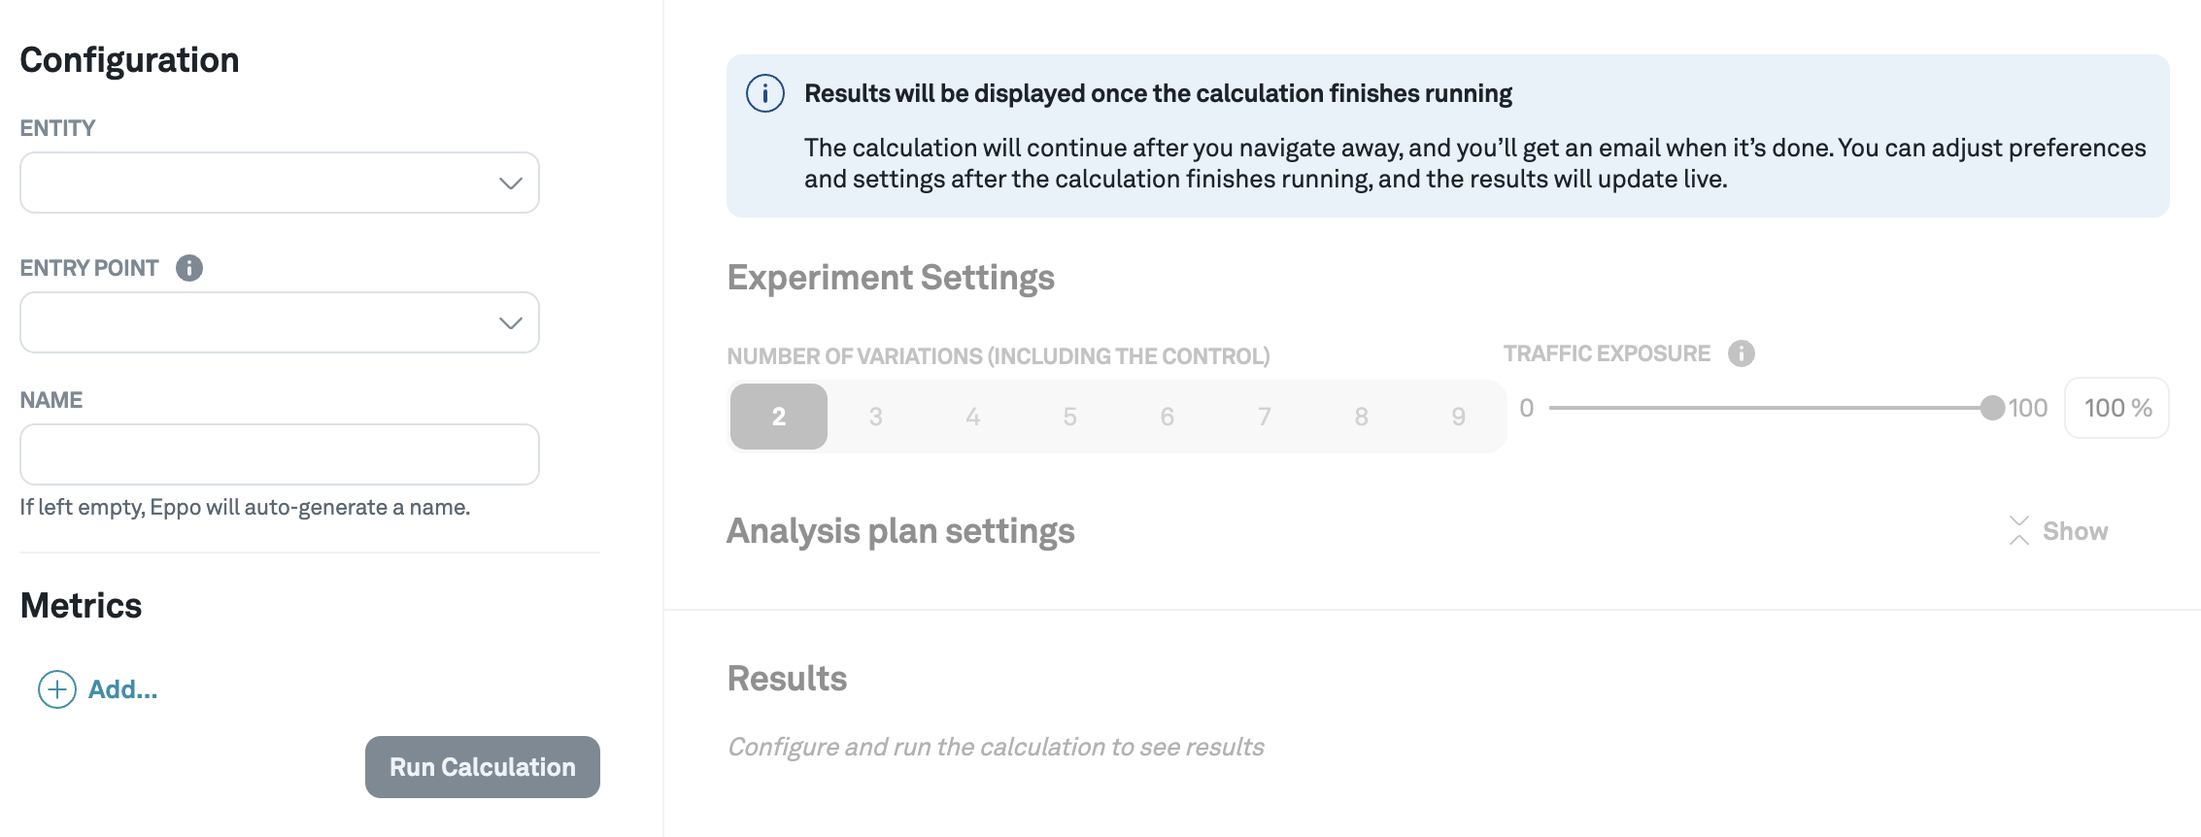
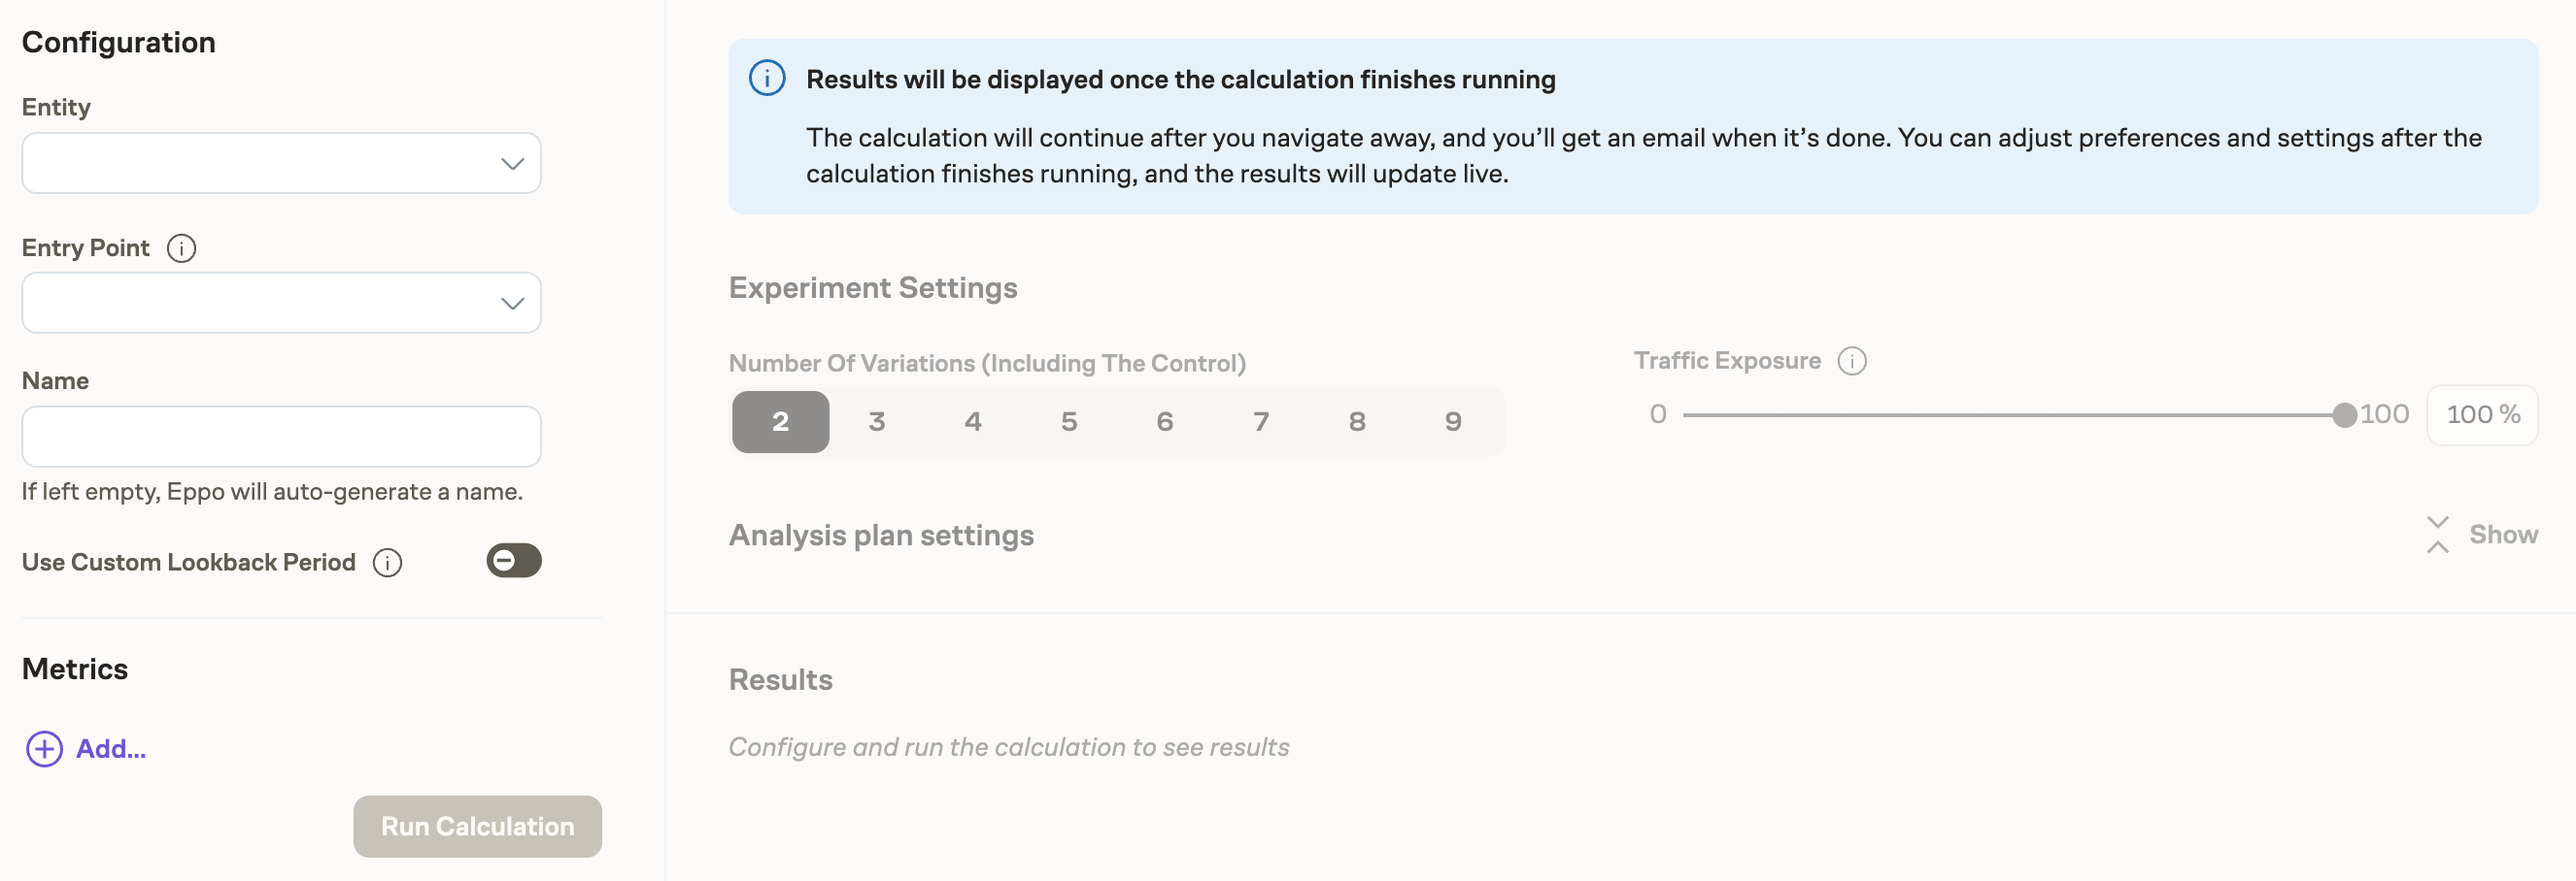
Add custom start date to SSC usage page; update screenshot

diff --git a/docs/statistics/sample-size-calculator/usage.md b/docs/statistics/sample-size-calculator/usage.md
@@ -16,7 +16,11 @@ Here you can see a record of all past calculations, which are automatically save
 
 ![Sample size calculator interface](/img/planning-experiments/on_demand_sample_size_calculator_interface.png)
 
-Use the controls on the left to configure the sample size calculation. Select the experiment Entity, the Entry Point, and metrics you want to compute [Minimum Detectable Effects](/statistics/sample-size-calculator/mde) for. Funnel metrics are not supported in the sample size calculator. You can customize the saved calculation name or use the auto-generated name.
+Use the controls on the left to configure the sample size calculation. Select the experiment Entity, the Entry Point, and metrics you want to compute [Minimum Detectable Effects](/statistics/sample-size-calculator/mde) for. You can customize the saved calculation name or use the auto-generated name.
+
+You can optionally set a custom start date for the lookback period. By default, the sample size calculator uses the most recent 10 weeks of data as the lookback period, with all timespans (1 week, 2 weeks, etc.) ending at the current date. With a custom start date lookback period, the historical data for each timespan will instead start at the custom start date you select. This option can be useful when the most recent data has quality issues, or when seasonality makes the most recent data less representative of the traffic patterns that will hold during the experiment.
+
+Funnel metrics are not supported in the sample size calculator.
 
 :::tip
 You do not need to include all metrics you intend to add later to your experiment analysis.
